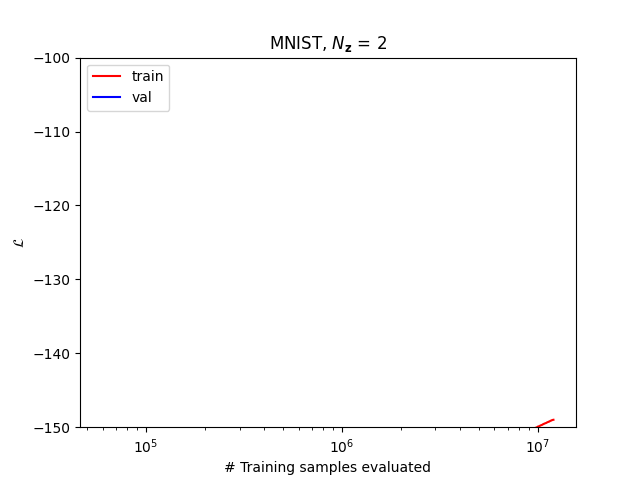
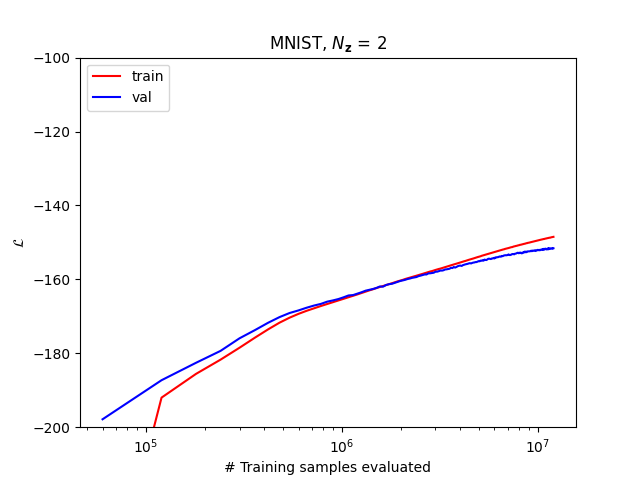
Added VAE.encode and VAE.decode to separate encoding and deocing. Decoding can be used to generate images from sampled z. Added plot_latent_space to visualize the latent space when it's 2D.

diff --git a/VAE.py b/VAE.py
@@ -474,6 +474,7 @@ def plot_latent_space(vae, n=30, figsize=15):
     plt.xlabel("z[0]")
     plt.ylabel("z[1]")
     plt.imshow(figure, cmap="Greys_r")
+    plt.savefig("images/latent_space.png")
     plt.show()
 
 
@@ -523,7 +524,7 @@ if __name__ == "__main__":
     dataset_name = "mnist"
     x_axis_label = "samples"
     x_axis_scale = "log"
-    ylim = (-150, -100)
+    ylim = (-200, -100)
 
     plot_lowerbound(
         history=history,
